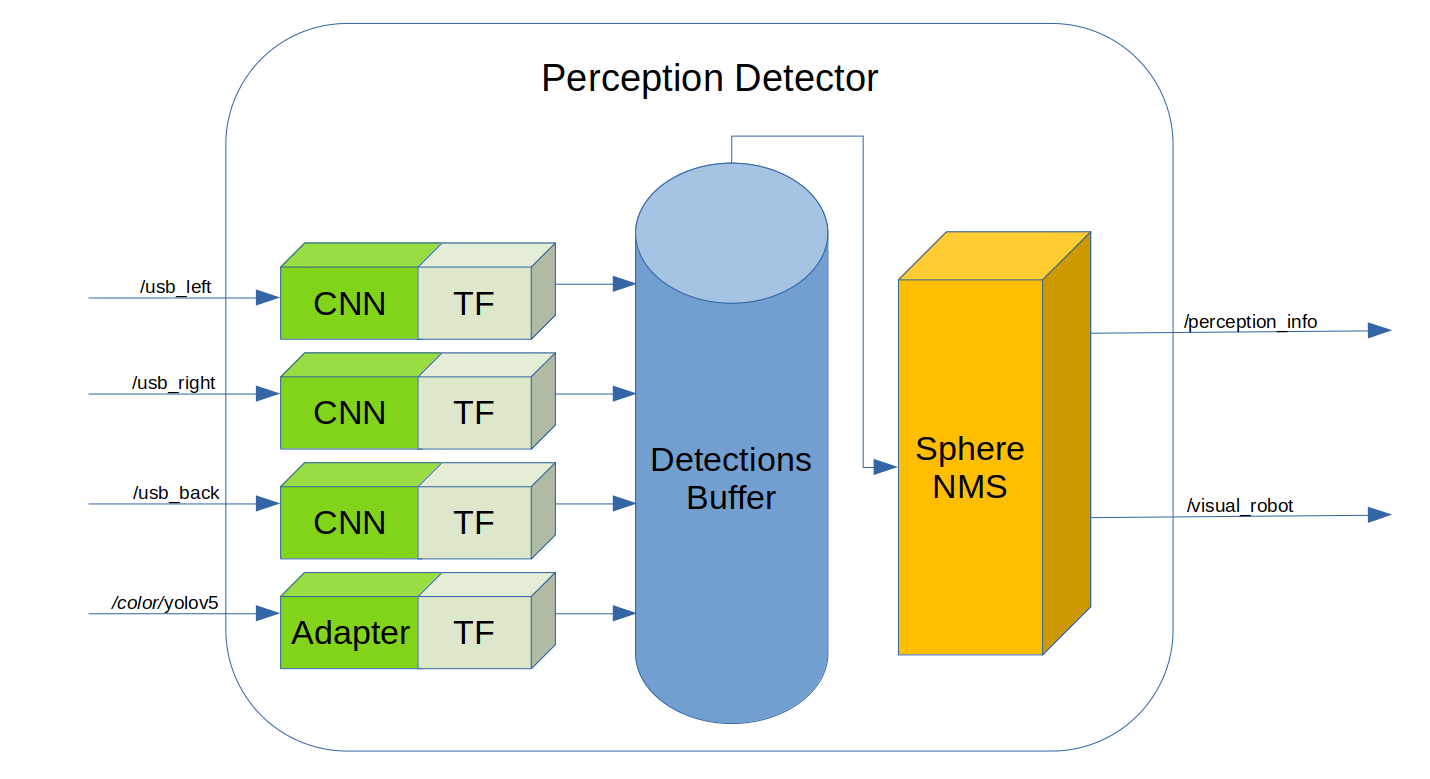
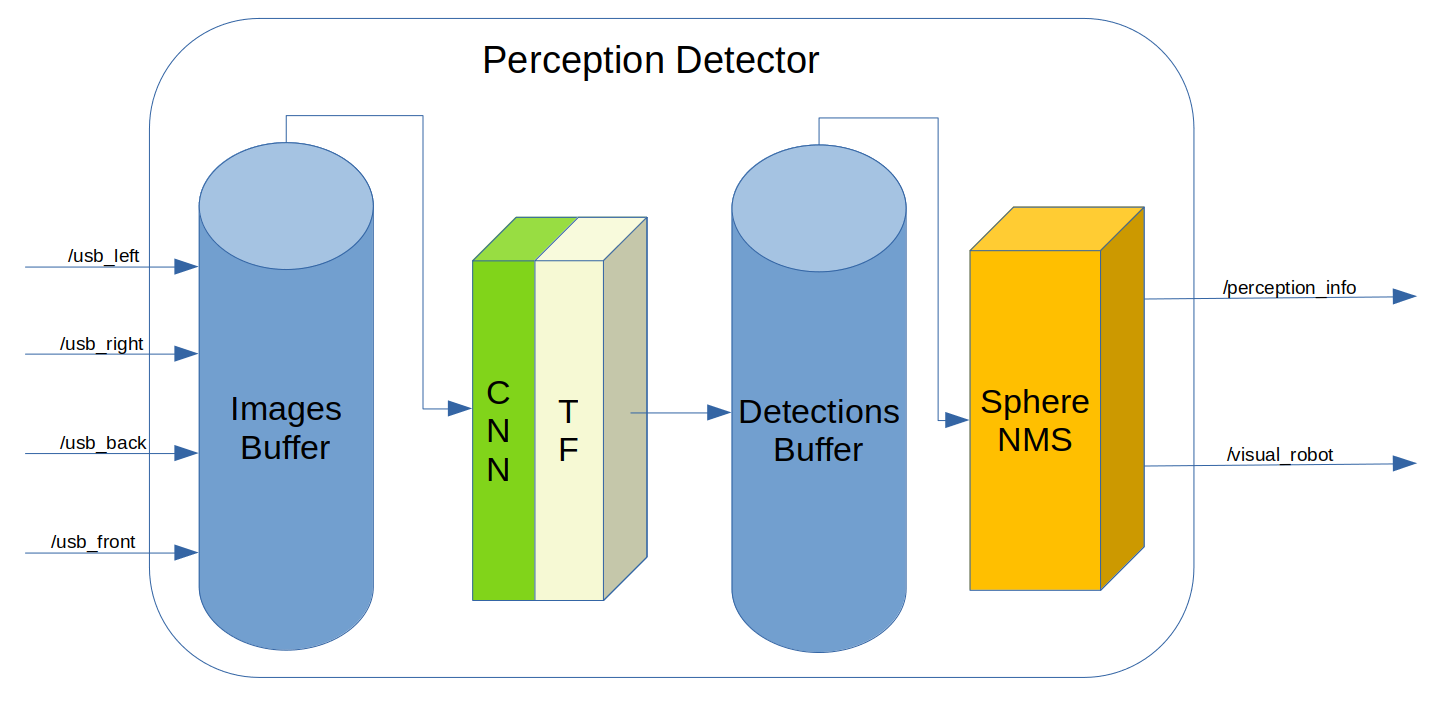
Updated README.

diff --git a/perception_detector/src/detector_node.cpp b/perception_detector/src/detector_node.cpp
@@ -26,7 +26,7 @@ namespace perception_detector
         std::string transport_type = this->declare_parameter("subscribe_compressed", false) ? "compressed" : "raw";
         perception_info_pub_ = this->create_publisher<DetectionArrayMsg>("perception_detector/perception_array", qos);
         vis_robot_pub_ = this->create_publisher<visualization_msgs::msg::MarkerArray>("perception_detector/visual_robot", qos);
-        postprocess_timer_ = rclcpp::create_timer(this, this->get_clock(), 150ms, std::bind(&DetectorNode::postProcessCallback, this));
+        postprocess_timer_ = rclcpp::create_timer(this, this->get_clock(), 100ms, std::bind(&DetectorNode::postProcessCallback, this));
         infer_timer_ = rclcpp::create_timer(this, this->get_clock(), 15ms, std::bind(&DetectorNode::inferCallback, this));
         // CameraType camera_num;
         std::cout<<path_params_.camera_param_path<<std::endl;

diff --git a/README.md b/README.md
@@ -8,7 +8,7 @@
 
 
 注意：
-**自瞄部分仍未完成整理，但该库需要使用其中包含的两个消息`Detection.msg`和`DetectionArray.msg`。目前我们暂时在`perception_detector/msg`文件夹中提供了两个消息的定义，使用时可自行修改CMakeLists编译.**
+**自瞄部分未完成整理，但该库需要使用其中包含的两个消息`Detection.msg`和`DetectionArray.msg`。目前我们暂时在`perception_detector/msg`文件夹中提供了两个消息的定义，使用时可自行修改CMakeLists编译.**
 ### 1.2.订阅话题与发布话题
 #### 1.2.1 订阅话题
 |话题|消息类型|描述|
@@ -51,9 +51,11 @@
 ## 3.算法流程
 算法示意图如下:
 <img src="pic/architecture.png"/>
-程序将订阅相关topic，接收USB相机采集的图像，为每个相机分配一个CNN推理实例，并进行CNN模板检测，搭载有板载推理芯片的OAK深度相机则会被分配到一个Adapter来对其推理结果转化。推理与转换完成后这些推理结果将会经历TF坐标变换，均被转化至统一的base_link系下并被存入buffer以供后处理。  
+程序将订阅相关topic，接收USB相机采集的图像并存入图像buffer
 
-后处理函数将以20hz的频率被调用，后处理函数将从buffer中提取出一定时间范围内的装甲板检测信息，并对这些检测结果进行两层NMS处理。第一层NMS处理依据检测到装甲板间的三维距离进行，主要用于去除重复装甲板，并保存个装甲板实例的重叠同类别装甲板数;第二层NMS先按重叠同类别装甲板数对第一次结果进行排序，再次按类别进行NMS，确保无误识别与同类别车辆出现多次的情况。经过上述处理后我们已经得到了周围车辆的检测结果，这些信息会以检测结果与可视化消息的形式发布。
+推理函数调用将以66hz（15ms）的频率被调用（基于性能考虑，所有图像共用一个推理实例）。推理完成后这些推理结果将会经历TF坐标变换，均被转化至统一的base_link系下并被存入推理结果buffer以供后处理。  
+
+后处理函数将以10hz的频率被调用，后处理函数将从推理结果buffer中提取出一定时间范围内的装甲板检测信息，并对这些检测结果进行两层NMS处理。第一层NMS处理依据检测到装甲板间的三维距离进行，主要用于去除重复装甲板，并保存个装甲板实例的重叠同类别装甲板数;第二层NMS先按重叠同类别装甲板数对第一次结果进行排序，再次按类别进行NMS，确保无误识别与同类别车辆出现多次的情况。经过上述处理后我们已经得到了周围车辆的检测结果，这些信息会以检测结果与可视化消息的形式发布。
 
 
 ## 4.使用教程
